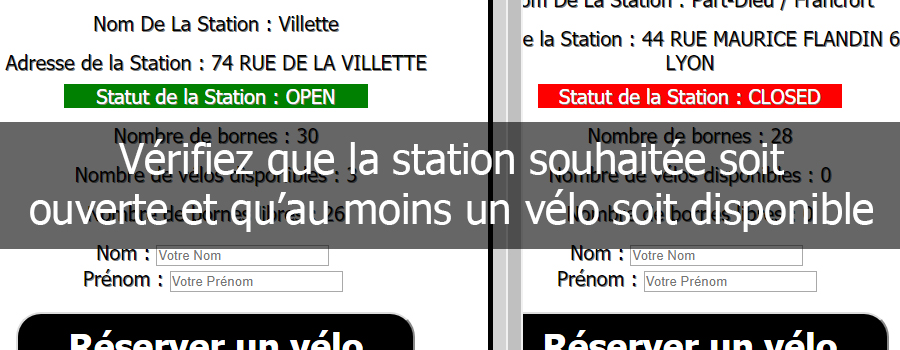
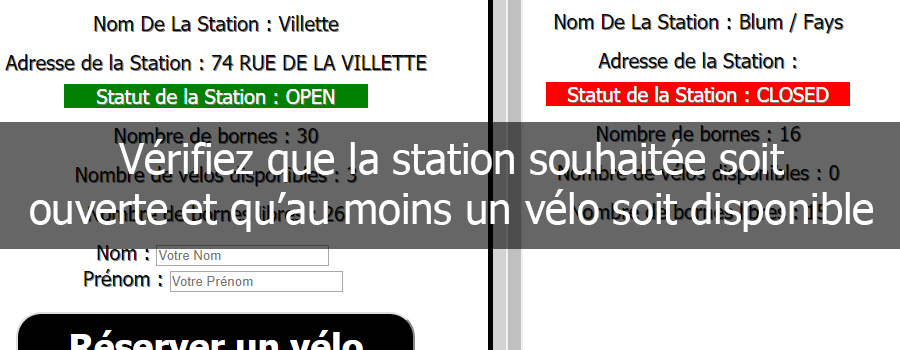
test script et modif image slider

diff --git a/JS/scripttest.js b/JS/scripttest.js
@@ -68,6 +68,14 @@ function stationMap() {
             $('#stationDetails').show();
             $('#instruction').hide();
             $('#velov_station_img').hide();
+            // condition qui masque le bouton réserver un vélo et le formulaire nom-prénom, si la station est fermée ou aucun vélo n'est disponible
+            if (this.clickedStation.status === 'CLOSED' || this.clickedStation.available_bikes === 0) {
+                $('#bookForm').hide();
+                $('.bookBtn').hide();
+            } else {
+                $('#bookForm').show();
+                $('.bookBtn').show();
+            }
         });
 
         // ajout des marqueurs sur la map
@@ -85,18 +93,14 @@ function canvasButtons() {
         this.attachClickEventToSubmit();
         this.attachClickEventToCancel();
     }
+
     // la fonction du bouton reserver un vélo avec condition si station fermée ou zéro vélo disponible
     this.attachClickEventToCanvas = function () {
         $('.bookBtn').click(function () {
-            $('bookBtn').hide();
             $('#canvas').show();
-            if (this.clickedStation.status === 'CLOSED' || this.clickedStation.available_bikes === 0) {
-                $('#canvas').hide();
-                $('.bookBtn').show();
-                alert("La station est fermée ou aucun vélo de disponible ! Essayez une autre station !");
-            }
         });
     }
+
     // la fonction du bouton valider 
     this.attachClickEventToSubmit = function () {
         $('#submitCanvasBtn').click(function () {
@@ -106,7 +110,6 @@ function canvasButtons() {
                 $('#stationDetails').hide();
                 $('#velov_station_img').show();
                 $('#instruction').show();
-                $('.bookBtn').show();
                 Canvas.clearDraw();
             } else {
                 alert("Merci de signer pour activer votre réservation !");
@@ -176,7 +179,7 @@ function Reservation() {
         sessionStorage.setItem('bookInfo', JSON.stringify(station));
     }
 
-    // la fonction qui refresh le footer
+    // la fonction qui refresh la reservation dans le footer
     this.refresh = function () {
         firstname = localStorage.getItem("firstname", "");
         lastname = localStorage.getItem("lastname", "");
